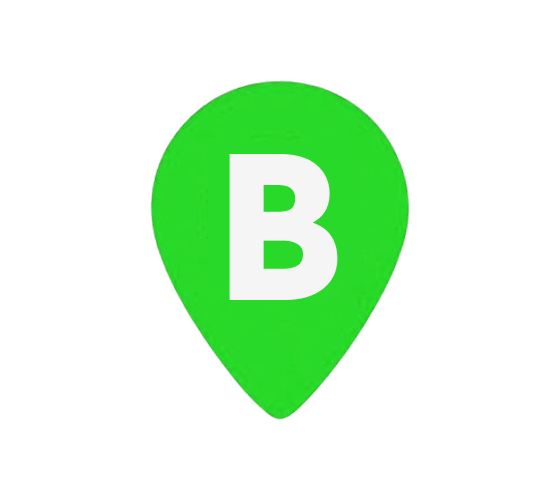
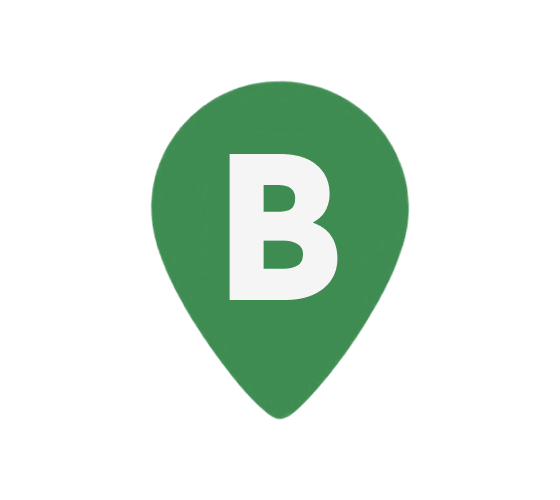
완강기 핀 색을 차분한 초록으로 변경, 모든 핀 크기 확대

Changed region(s): [[0.2732, 0.15, 0.7286, 0.84], [0.4554, 0.36, 0.5464, 0.45], [0.4554, 0.48, 0.5464, 0.54]]

diff --git a/safety-map/style.css b/safety-map/style.css
@@ -58,7 +58,7 @@ ol li{margin-bottom:6px}
 .empty{color:var(--muted)}
 
 /* ===== 핀 (크기·효과·말풍선 전체) ===== */
-.map .pin{position:absolute;width:7%;min-width:30px;transform:translate(-50%,-100%)}
+.map .pin{position:absolute;width:9.5%;min-width:40px;transform:translate(-50%,-100%)}
 .pin img{display:block;width:100%;height:auto;filter:drop-shadow(0 2px 2px rgba(0,0,0,.3));transition:transform .15s;transform-origin:50% 100%}
 .pin:hover,.pin:focus-visible,.pin.active{z-index:10}
 .pin:hover img,.pin:focus-visible img{transform:scale(1.2)}
@@ -149,7 +149,7 @@ button{font-family:inherit}
 /* 사용 안내 상자 */
 .guide-tip{display:flex;align-items:center;gap:10px;background:var(--card);border:1px solid var(--line);border-left:5px solid var(--accent);border-radius:10px;padding:12px 16px;color:var(--ink);font-size:1rem;font-weight:500}
 .guide-tip strong{color:var(--red);font-weight:800}
-.guide-tip strong.green{color:#1f9d2b}
+.guide-tip strong.green{color:#3e8c52}
 .tip-icon{font-size:1.4rem;line-height:1;flex-shrink:0}
 
 /* 내 위치 점 */
